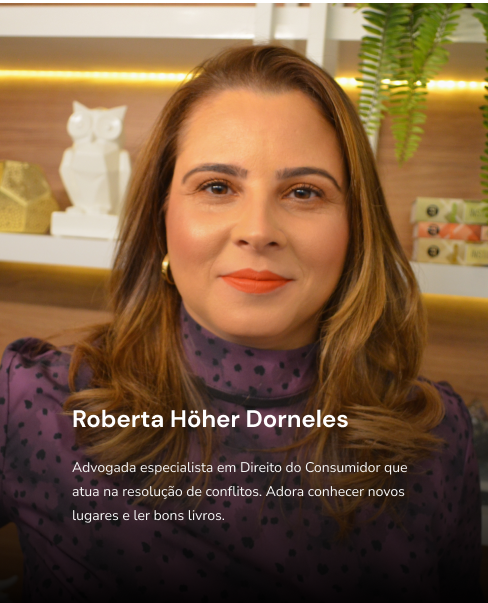
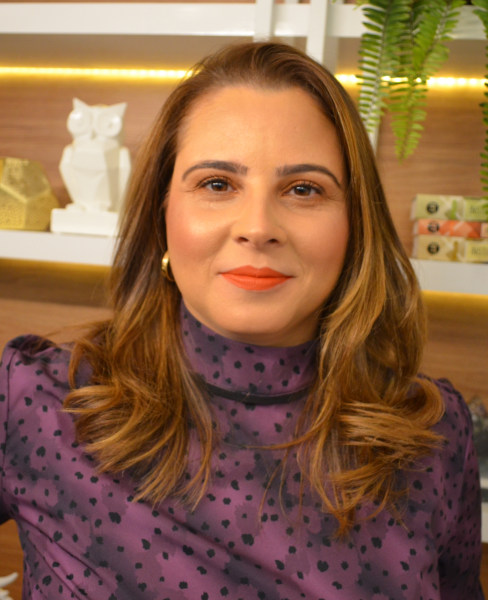
"Team" sections

diff --git a/src/components/home/NossaEquipe.js b/src/components/home/NossaEquipe.js
@@ -1,21 +1,31 @@
 import React from 'react';
+import Img from '../Img';
 
-export default function NossaEquipe({ textos }) {
+export default function NossaEquipe({ content }) {
 
   return (
     <div className="container-fluid px-0 position-relative" id="nossa-equipe">
       <div className="container">
         <div className="w-100 text-center team-title">
-          <span className="line-title w-max-content">{'NOSSA EQUIPE'}</span>
-          <strong className="playfair fs-44 d-block break-spaces">{'Conheça as Sócias'}</strong>
+          <span className="line-title w-max-content">{content.title.subtitle}</span>
+          <strong className="playfair fs-44 d-block break-spaces">{content.title.title}</strong>
         </div>
-        <div className="row gap-5">
-          <div className="col-12 col-xl-5 offset-xl-1">
-            <img className="w-100" src="/img/roberta.png" alt="Roberta" />
-          </div>
-          <div className="col-12 col-xl-5">
-            <img className="w-100" src="/img/solange.png" alt="Solange" />
-          </div>
+        <div className="row gy-5">
+          {
+            content.members.map((member, index) => {
+              return (
+                <div className={`col-12 col-xl-5 ${index === 0 ? 'offset-xl-1' : ''}`} key={`photo-${index}`}>
+                  <div className="member-photo">
+                    <Img src={member.photo.data.attributes} alt="" />
+                    <div className="member-text">
+                      <strong className="fs-24">{member.name}</strong>
+                      <p className="fs-14">{member.bio}</p>
+                    </div>
+                  </div>
+                </div>
+              )
+            })
+          }
         </div>
       </div>
     </div>

diff --git a/public/css/home.css b/public/css/home.css
@@ -188,6 +188,12 @@
   flex-wrap: nowrap;
 }
 
+@media (max-width: 768px) {
+  .gallery img {
+    height: 120px;
+  }
+}
+
 /* -=-=-=-=-=-=-=-=-=-=-=-=-=-=-=-=-=-=-=-=- Nossa Equipe -=-=-=-=-=-=-=-=-=-=-=-=-=-=-=-=-=-=-=-=- */
 
 #nossa-equipe {
@@ -211,6 +217,53 @@
 
 .team-title {
   padding: 110px 0;
+}
+
+.member-photo {
+  position: relative;
+  width: 100%;
+}
+
+.member-photo::after {
+  content: "";
+  position: absolute;
+  top: 0;
+  left: 0;
+  height: 100%;
+  width: 100%;
+  background-image: linear-gradient(
+    180deg,
+    rgba(33, 33, 33, 0) 0%,
+    rgba(26, 26, 26, 0.104167) 60.42%,
+    rgba(0, 0, 0, 0.95) 100%
+  );
+}
+
+.member-photo img {
+  width: 100%;
+  object-fit: cover;
+}
+
+.member-text {
+  position: absolute;
+  bottom: 0;
+  padding: 80px 72px;
+  z-index: 1;
+}
+
+.member-text strong {
+  display: block;
+  margin-bottom: 24px;
+}
+
+.member-text p {
+  color: var(--snow);
+}
+
+@media (max-width: 768px) {
+  .member-text {
+    padding: 32px 44px;
+  }
 }
 
 /* -=-=-=-=-=-=-=-=-=-=-=-=-=-=-=-=-=-=-=-=- Call To Action -=-=-=-=-=-=-=-=-=-=-=-=-=-=-=-=-=-=-=-=- */
@@ -309,7 +362,6 @@
 
 #banner-content {
   max-width: 380px;
-  margin-bottom: 45px;
 }
 
 .banner {

diff --git a/src/components/HeadContent.js b/src/components/HeadContent.js
@@ -4,7 +4,7 @@ export default function HeadContent(props) {
   return (
     <Head>
       <title>{props.title}</title>
-      {/* <link rel="stylesheet" href={`/css/${props.page}.css`} /> */}
+      <link rel="stylesheet" href={`/css/${props.page}.css`} />
       <link rel="icon" href="/img/favicon.png" />
       <link rel="stylesheet" href="https://cdn.jsdelivr.net/npm/bootstrap@5.0.0-beta2/dist/css/bootstrap.min.css" />
       <script src="https://cdn.jsdelivr.net/npm/bootstrap@5.0.0-beta3/dist/js/bootstrap.bundle.min.js" />

diff --git a/public/css/global.css b/public/css/global.css
@@ -540,7 +540,8 @@ a:hover {
 /* -=-=-=-=-=-=-=-=-=-=-=-=-=-=-=-=-=-=-=-=- FixedHeader -=-=-=-=-=-=-=-=-=-=-=-=-=-=-=-=-=-=-=-=- */
 
 .fixed-header {
-  position: sticky;
+  position: fixed;
+  width: 100%;
   top: 0;
   z-index: 4;
   background-image: none;
@@ -878,7 +879,7 @@ footer {
   }
 
   #banner-superior {
-    height: 580px;
+    height: 720px;
   }
   #sobre-nos {
     padding-top: 75px;

diff --git a/src/pages/index.js b/src/pages/index.js
@@ -31,7 +31,7 @@ export default function Home({ home, footer, infos }) {
 			<div className="container-fluid p-0 position-relative home">
 				<SobreNos content={home.data.attributes.aboutUs} />
 				<Galeria content={home.data.attributes.carousel.gallery} />
-				<NossaEquipe />
+				<NossaEquipe content={home.data.attributes.ourTeam} />
 				<Areas />
 				<CallToAction />
 				<Recentes />

diff --git a/src/pages/_app.js b/src/pages/_app.js
@@ -1,5 +1,5 @@
 import '../../public/css/global.css';
-import '../../public/css/home.css';
+/* import '../../public/css/home.css'; */
 import React, { useEffect } from "react";
 import { useRouter } from 'next/router';
 import { homePage } from "../../public/js/pages";
